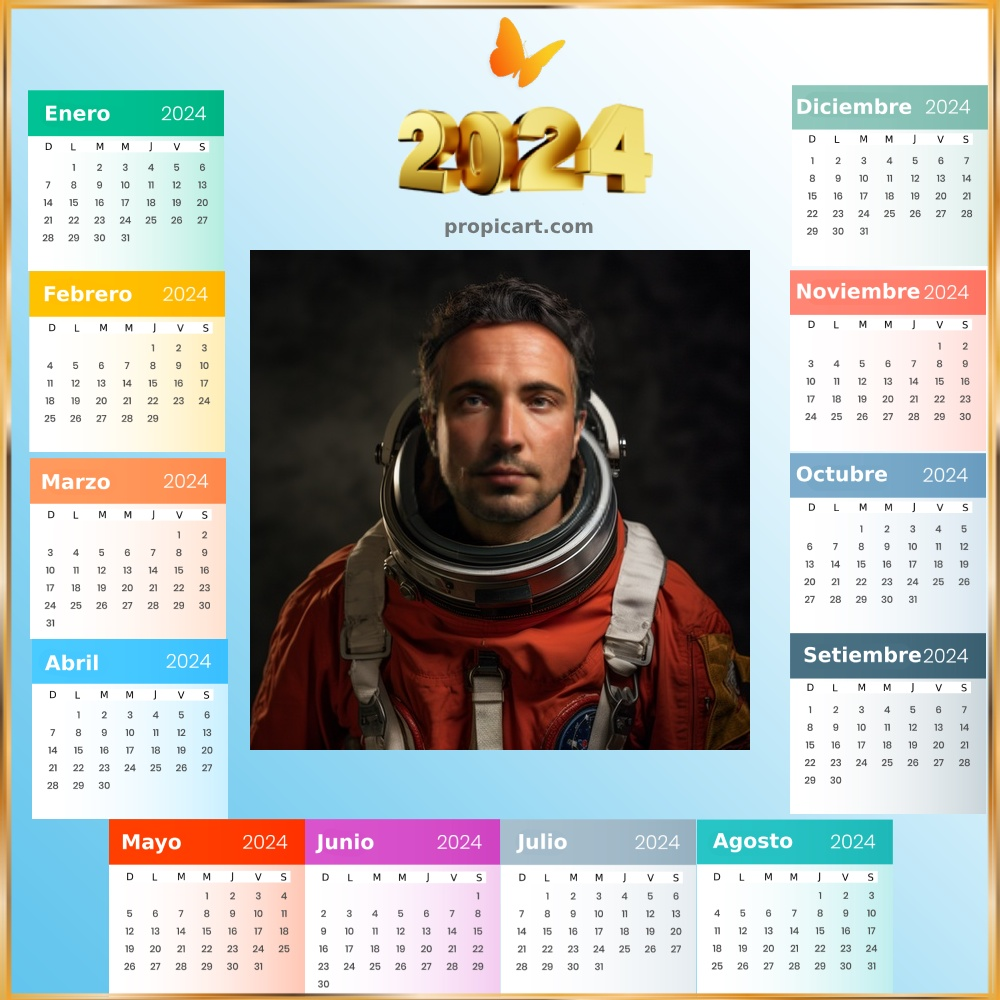
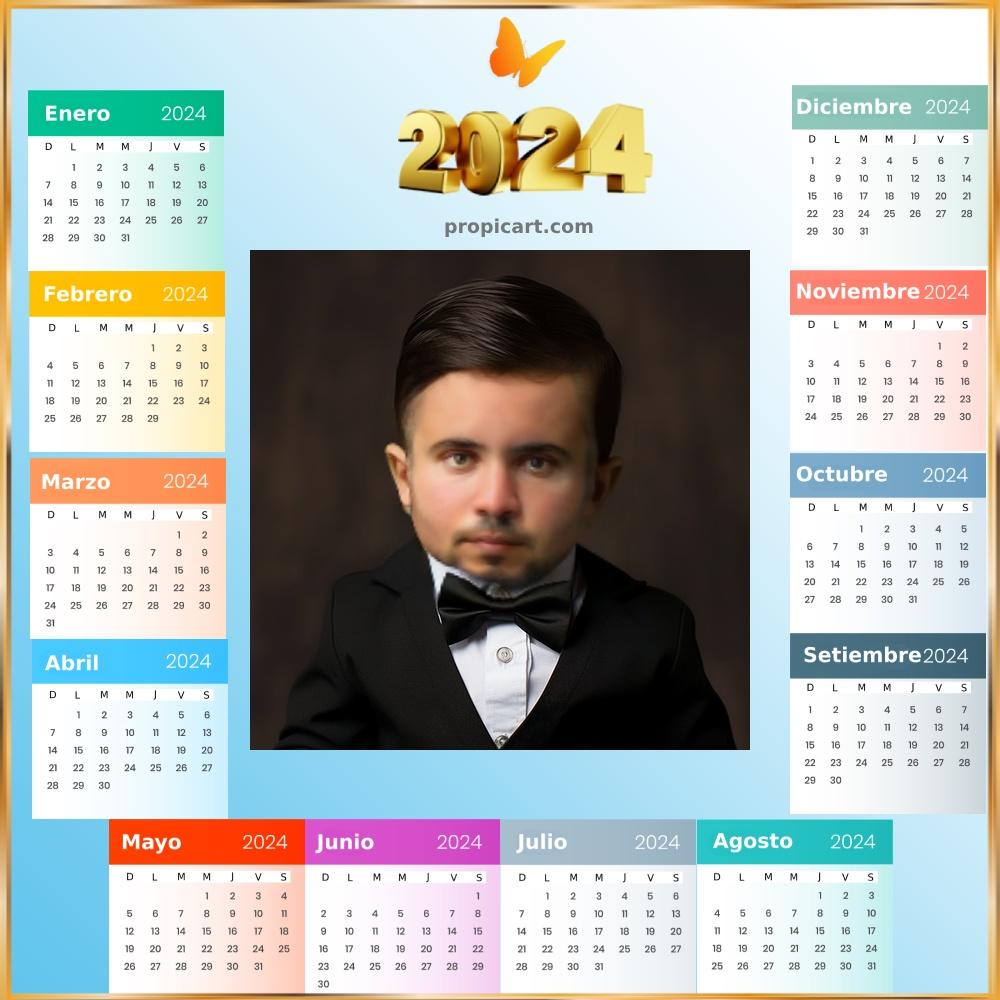
Descripción de tus cambiossdasd

Changed region(s): [[0.248, 0.248, 0.775, 0.775]]

diff --git a/app.py b/app.py
@@ -24,7 +24,7 @@ from datetime import datetime
 import random
 import os
 from os.path import join
-from swapper import swapper
+import swapper
 import subprocess
 
 # Instalación y configuración de CodeFormer
@@ -438,6 +438,7 @@ def comprar():
 import subprocess
 
 def process_with_codeformer(input_path):
+    print("SE INICIO CODEFORME")
     try:
         CODEFORMER_FIDELITY = 0.8
         BACKGROUND_ENHANCE = True
@@ -447,7 +448,7 @@ def process_with_codeformer(input_path):
         output_path = input_path.replace('user_upload', 'user_upload_processed')
 
         command = [
-            'python', '/content/CodeFormer/inference_codeformer.py',
+            'python', 'CodeFormer/inference_codeformer.py',
             '-w', str(CODEFORMER_FIDELITY),
             '--input_path', input_path,
             '--output_path', output_path,
@@ -556,9 +557,8 @@ def procesar():
         cv2.imwrite(output_path, img)
         print("UNIQUE NAME ES", unique_name)
         print(session)
-        if 'unique_name' in img_persona_path:
-            img_persona = process_with_codeformer(img_persona)
-    
+        process_with_codeformer(output_path)
+        print("inicio de codeforme")
 
     # Devuelve la última imagen generada como resultado
     unique_name = unique_name
